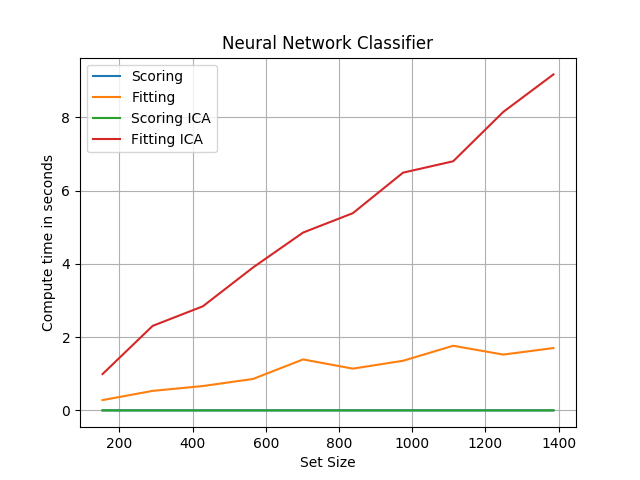
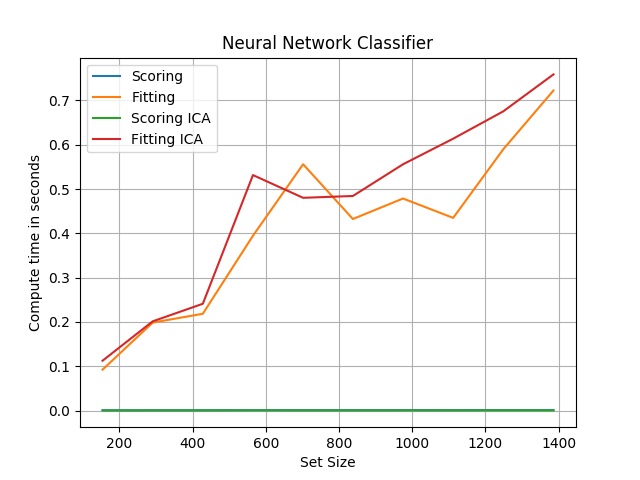
oui

diff --git a/dim/ICA.py b/dim/ICA.py
@@ -20,10 +20,13 @@ DATASET = digits
 N_COMPONENTS = 19
 N_CLUSTERS = 10
 MODE = "nothing"
-EXPERIMENT = 'compute_time'
+EXPERIMENT = 'learning'
 
 # General Options
 TITLE = 'Neural Network Classifier'
+LEARNING_RATE = 1e-2
+TOLERANCE = 1e-4
+TOPOLOGY = (30,)
 
 ica = decomposition.FastICA(N_COMPONENTS, max_iter=100000, tol=4.8e-4)
 new_data = ica.fit_transform(DATASET.training_features)
@@ -81,8 +84,14 @@ elif MODE == "report":
     print(final_out)
 
 if EXPERIMENT == 'learning':
-    classifier_ica = neural_network.MLPClassifier()
-    classifier = neural_network.MLPClassifier()
+    classifier_ica = neural_network.MLPClassifier(
+        learning_rate_init=LEARNING_RATE,
+        tol=TOLERANCE,
+        hidden_layer_sizes=TOPOLOGY)
+    classifier = neural_network.MLPClassifier(
+        learning_rate_init=LEARNING_RATE,
+        tol=TOLERANCE,
+        hidden_layer_sizes=TOPOLOGY)
 
     plot_x = []
     plot_y_testing = []
@@ -125,16 +134,22 @@ elif EXPERIMENT == 'compute_time':
     for training_fraction in np.linspace(0.1, 0.9, 10):
         training_size = int(len(new_data) * training_fraction)
         print("Computing score for training_size = {} ...".format(training_size))
-        classifier = neural_network.MLPClassifier(max_iter=1000)
-        classifier_pca = neural_network.MLPClassifier(max_iter=1000)
+        classifier_ica = neural_network.MLPClassifier(
+            learning_rate_init=LEARNING_RATE,
+            tol=TOLERANCE,
+            hidden_layer_sizes=TOPOLOGY)
+        classifier = neural_network.MLPClassifier(
+            learning_rate_init=LEARNING_RATE,
+            tol=TOLERANCE,
+            hidden_layer_sizes=TOPOLOGY)
 
         result = model_selection.cross_validate(
                 classifier, 
                 DATASET.training_features[:training_size],
                 DATASET.training_labels[:training_size],
                 cv=10, return_train_score=True)
-        result_pca = model_selection.cross_validate(
-                classifier_pca, 
+        result_ica = model_selection.cross_validate(
+                classifier_ica, 
                 new_data[:training_size],
                 DATASET.training_labels[:training_size],
                 cv=10, return_train_score=True)

diff --git a/dim/PCA.py b/dim/PCA.py
@@ -24,10 +24,13 @@ DATASET = phoneme
 N_COMPONENTS = 4
 N_CLUSTERS = 2
 MODE = "nothing"
-EXPERIMENT = 'learning'
+EXPERIMENT = 'compute_time'
 
 # General Options
 TITLE = 'Neural Network Classifier'
+LEARNING_RATE = 1e-1
+TOLERANCE = 1e-4
+TOPOLOGY = (3,)
 
 pca = decomposition.PCA(N_COMPONENTS)
 new_data = pca.fit_transform(DATASET.training_features)
@@ -84,8 +87,14 @@ elif MODE == "report":
     print(final_out)
 
 if EXPERIMENT == 'learning':
-    classifier_pca = neural_network.MLPClassifier()
-    classifier = neural_network.MLPClassifier()
+    classifier_pca = neural_network.MLPClassifier(
+        learning_rate_init=LEARNING_RATE,
+        tol=TOLERANCE,
+        hidden_layer_sizes=TOPOLOGY)
+    classifier = neural_network.MLPClassifier(
+        learning_rate_init=LEARNING_RATE,
+        tol=TOLERANCE,
+        hidden_layer_sizes=TOPOLOGY)
 
     plot_x = []
     plot_y_testing = []
@@ -128,8 +137,14 @@ elif EXPERIMENT == 'compute_time':
     for training_fraction in np.linspace(0.1, 0.9, 10):
         training_size = int(len(new_data) * training_fraction)
         print("Computing score for training_size = {} ...".format(training_size))
-        classifier = neural_network.MLPClassifier()
-        classifier_pca = neural_network.MLPClassifier()
+        classifier_pca = neural_network.MLPClassifier(
+            learning_rate_init=LEARNING_RATE,
+            tol=TOLERANCE,
+            hidden_layer_sizes=TOPOLOGY)
+        classifier = neural_network.MLPClassifier(
+            learning_rate_init=LEARNING_RATE,
+            tol=TOLERANCE,
+            hidden_layer_sizes=TOPOLOGY)
 
         result = model_selection.cross_validate(
                 classifier, 

diff --git a/dim/RP.py b/dim/RP.py
@@ -28,7 +28,10 @@ EXPERIMENT = 'learning'
 
 # General Options
 TITLE = 'Neural Network Classifier'
-N_REPEAT = 2
+N_REPEAT = 10
+LEARNING_RATE = 1e-1
+TOLERANCE = 1e-4
+TOPOLOGY = (3,)
 
 rp = random_projection.GaussianRandomProjection(n_components=N_COMPONENTS)
 new_data = rp.fit_transform(DATASET.training_features)
@@ -118,8 +121,14 @@ if EXPERIMENT == 'learning':
     for i in range(N_REPEAT):
         if i % 50 == 0:
             print("{}/{}".format(i, N_REPEAT))
-        classifier = neural_network.MLPClassifier()
-        classifier_rp = neural_network.MLPClassifier()
+        classifier = neural_network.MLPClassifier(
+            learning_rate_init=LEARNING_RATE,
+            tol=TOLERANCE,
+            hidden_layer_sizes=TOPOLOGY)
+        classifier_rp = neural_network.MLPClassifier(
+            learning_rate_init=LEARNING_RATE,
+            tol=TOLERANCE,
+            hidden_layer_sizes=TOPOLOGY)
 
         _, train, test = model_selection.learning_curve(
             classifier, DATASET.training_features, DATASET.training_labels,
